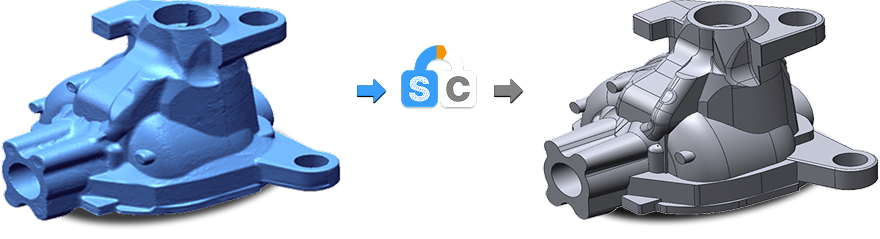
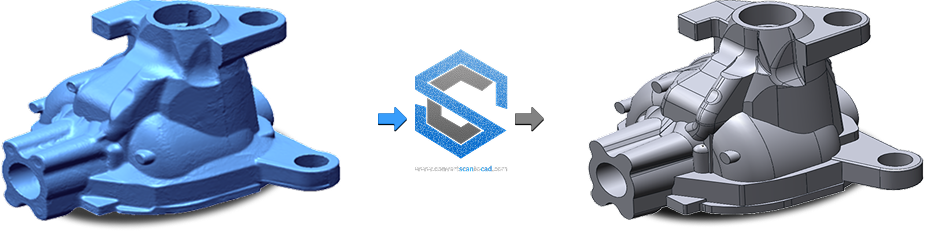
update

diff --git a/src/components/website/home/FooterSection.jsx b/src/components/website/home/FooterSection.jsx
@@ -5,7 +5,7 @@ export const FooterSection = () => {
   return (
     <>
       <section className="mt-40 container mx-auto px-4 text-center">
-        <img src="/img/website/home/logo2.png" alt="Logo" className="mx-auto mb-6" />
+        <img src="/img/website/home/new-logo.png" alt="Logo" className="mx-auto mb-6 w-[270px]" />
         <h2 className="text-4xl font-bold">Start Converting Your Scans to CAD Today</h2>
         <div className="mt-6">
             <Link to='/app/register' className="block w-full max-w-xs md:max-w-fit mx-auto text-center bg-gradient-to-b from-[#389DFB] to-[#2DA7FF] text-white font-semibold text-sm md:text-lg px-6 md:px-8 py-3 rounded-2xl shadow-[0_10px_30px_rgba(0,0,0,0.15)] hover:shadow-[0_12px_34px_rgba(0,0,0,0.2)] transition-all duration-300 whitespace-normal">Create Free Account & Get 4 Hours of Free Credits</Link>
@@ -16,7 +16,7 @@ export const FooterSection = () => {
       <footer className="mt-40 bg-gradient-to-r from-neutral-700 to-neutral-400 py-16">
         <div className="container mx-auto px-4 grid grid-cols-1 lg:grid-cols-2 gap-8">
           <div>
-            <img src="/img/website/home/logo.png" alt="Footer Logo" className="mb-6" />
+            <img src="/img/website/home/new-logo.png" alt="Footer Logo" className="mb-6 w-[250px]" />
             <h2 className="text-white text-3xl font-bold">Get your 3D Scans Converted into CAD models.</h2>
             <div className="flex gap-6 mt-6 flex-wrap">
               <a href="https://us02web.zoom.us/j/5903189768?pwd=T3VucDArMUY1NGxNRU1NMnJMYnVuQT09" className="bg-gradient-to-b from-[#389DFB] to-[#2DA7FF] text-white font-semibold text-lg px-8 py-3 rounded-2xl shadow-[0_10px_30px_rgba(0,0,0,0.15)] hover:shadow-[0_12px_34px_rgba(0,0,0,0.2)] transition-all duration-300">Meet Us Live Online</a>

diff --git a/src/components/Home.jsx b/src/components/Home.jsx
@@ -12,12 +12,17 @@ export default function HomePage() {
   return (
     <div className="overflow-x-hidden ">
       {/* Header */}
-      <header className=" bg-[linear-gradient(18.16deg,_#424242_30.16%,_#A8A8A8_284.6%)] flex justify-between items-center px-10 py-5 bg-gradient-to-r from-neutral-700 to-neutral-400 rounded-b-[50px] w-[98%] mx-auto max-sm:justify-center flex-wrap">
+      <header className="bg-[linear-gradient(18.16deg,_#424242_30.16%,_#A8A8A8_284.6%)] flex justify-between items-center px-10 py-5 bg-gradient-to-r from-neutral-700 to-neutral-400 rounded-b-[50px] w-[98%] mx-auto max-sm:justify-center flex-wrap">
         <img
-          src="/img/website/home/logo.png"
+          src="/img/website/home/new-logo.png"
           alt="Logo"
           className="w-[160px]"
         />
+        <div className="flex space-x-10 max-sm:my-4 max-sm:space-x-4">
+          <a href="#home" className="text-white font-semibold hover:underline">Home</a>
+          <a href="#about" className="text-white font-semibold hover:underline">About Us</a>
+          <a href="#blog" className="text-white font-semibold hover:underline">Blog</a>
+        </div>
         <div className="flex items-center gap-6">
             <Link to='/app/login' className="px-6 py-2 text-blue-500 font-semibold border border-blue-400 rounded-lg hover:bg-blue-50 transition duration-300">Log in</Link>
             

diff --git a/src/components/LoginPage.jsx b/src/components/LoginPage.jsx
@@ -1,7 +1,7 @@
 import React, { useState } from 'react';
 import { login, forgotPassword, resetPassword } from '../api';
 import { useNavigate } from 'react-router-dom';
-import logo from '../../public/img/logo/logo1.png';
+import logo from '../../public/img/logo/new-logo.png';
 import { FiEye, FiEyeOff } from 'react-icons/fi';
 
 function LoginPage() {
@@ -108,7 +108,7 @@ function LoginPage() {
       <div className="flex w-full lg:w-1/2 justify-center items-center p-24">
         <div className="max-w-md w-full space-y-6">
           <div className="text-center">
-            <img src={logo} alt="Convertscantocad" className="mx-auto w-auto" />
+            <img src={logo} alt="Convertscantocad" className="mx-auto w-62" />
             <h2 className="mt-6 text-3xl font-extrabold text-gray-900">
               {mode === 'login'
                 ? 'Sign in!'

diff --git a/src/components/website/home/WhyChooseUs.jsx b/src/components/website/home/WhyChooseUs.jsx
@@ -13,7 +13,7 @@ export const WhyChooseUs = () => {
     <section className="mt-24 container mx-auto px-4">
       <h2 className="text-center text-4xl font-bold">
         Why <span className="text-blue-500">Choose</span>{' '}
-        <img src="/img/website/home/logo2.png" alt="logo" className="inline w-32 h-auto" />?
+        <img src="/img/website/home/new-logo2.png" alt="logo" className="inline w-62 h-auto" />?
       </h2>
 
       <div className="mt-10 space-y-5">

diff --git a/src/components/RegisterPage.jsx b/src/components/RegisterPage.jsx
@@ -1,7 +1,7 @@
 import React, { useState, useMemo } from 'react';
 import { register, verifyEmail, resendVerification } from '../api';
 import { useNavigate } from 'react-router-dom';
-import logo from '../../public/img/logo/logo1.png';
+import logo from '../../public/img/logo/new-logo.png';
 import { FiEye, FiEyeOff } from 'react-icons/fi';
 import PhoneInput from 'react-phone-number-input';
 import 'react-phone-number-input/style.css';

diff --git a/src/components/admin/Sidebar.jsx b/src/components/admin/Sidebar.jsx
@@ -10,8 +10,8 @@ import {
   FiFileText,
   FiSettings 
 } from 'react-icons/fi';
-import logo from '../../../public/img/logo/logo1.png'; 
-import logo1 from '../../../public/img/logo/logo2.png'; 
+import logo from '../../../public/img/logo/new-logo.png'; 
+import logo1 from '../../../public/img/logo/new-logo.png'; 
 
 const Sidebar = () => {
   const [expandedMenus, setExpandedMenus] = useState({});

diff --git a/src/components/user/Sidebar.jsx b/src/components/user/Sidebar.jsx
@@ -14,8 +14,8 @@ import {
   FiList,
   FiLogOut,
 } from "react-icons/fi";
-import logo from "../../../public/img/logo/logo1.png";
-import logo1 from "../../../public/img/logo/logo2.png";
+import logo from "../../../public/img/logo/new-logo.png";
+import logo1 from "../../../public/img/logo/new-logo.png";
 
 const Sidebar = () => {
   const [expandedMenus, setExpandedMenus] = useState({});

diff --git a/src/components/user/HowItWorksPage.jsx b/src/components/user/HowItWorksPage.jsx
@@ -1,7 +1,7 @@
 import React from 'react';
 import { useNavigate } from 'react-router-dom';
 import { HiArrowSmRight } from 'react-icons/hi';
-import logo from '../../../public/img/logo/logo1.png';
+import logo from '../../../public/img/logo/new-logo.png';
 
 const HowItWorksPage = () => {
   const navigate = useNavigate();

diff --git a/src/components/user/OnboardingPage.jsx b/src/components/user/OnboardingPage.jsx
@@ -1,5 +1,5 @@
 import React from 'react';
-import logo from '../../../public/img/logo/logo1.png'; 
+import logo from '../../../public/img/logo/new-logo.png'; 
 import bg from '../../../public/img/Onbording.png'; 
 const OnboardingPage = () => {
   // You would ideally replace these with actual image paths or SVG components
